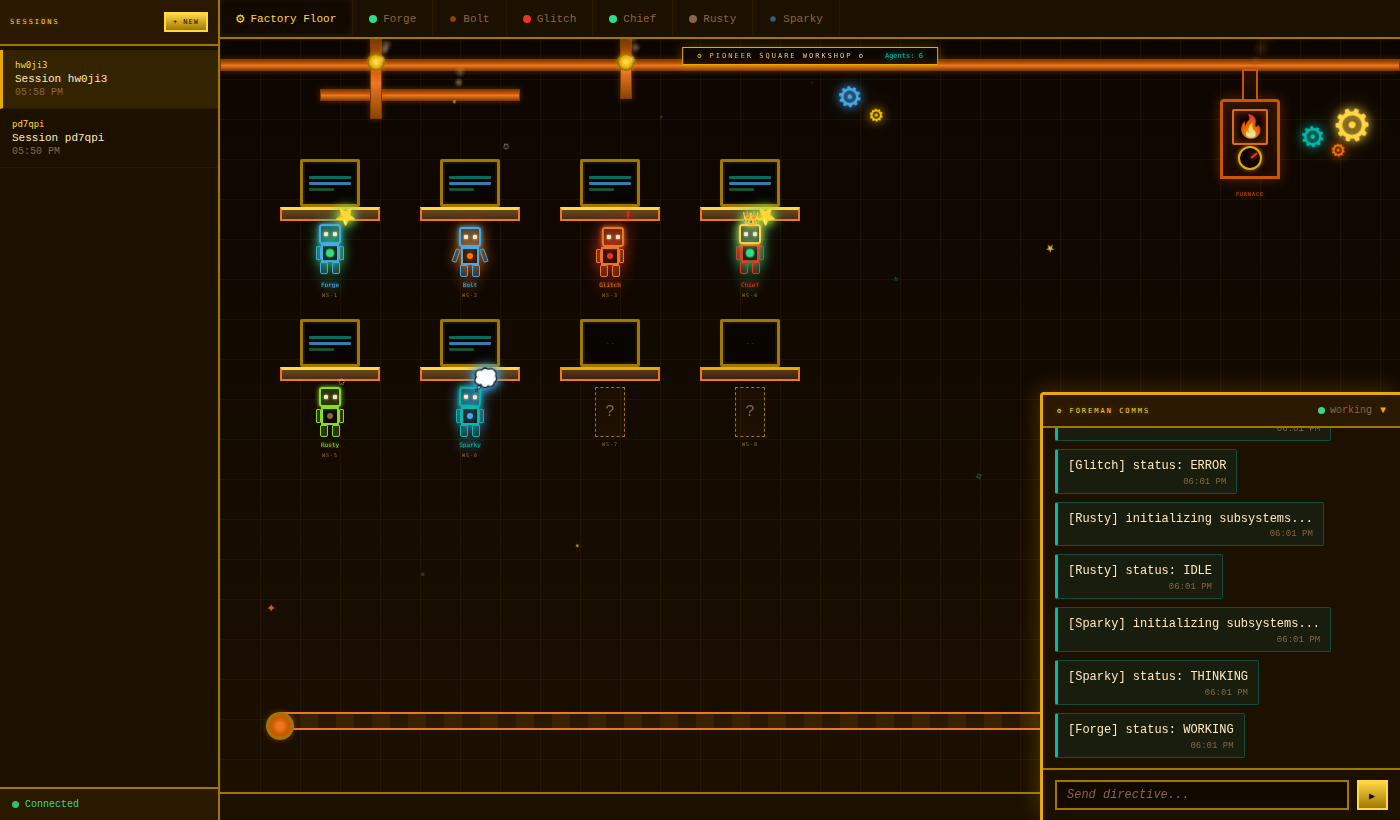
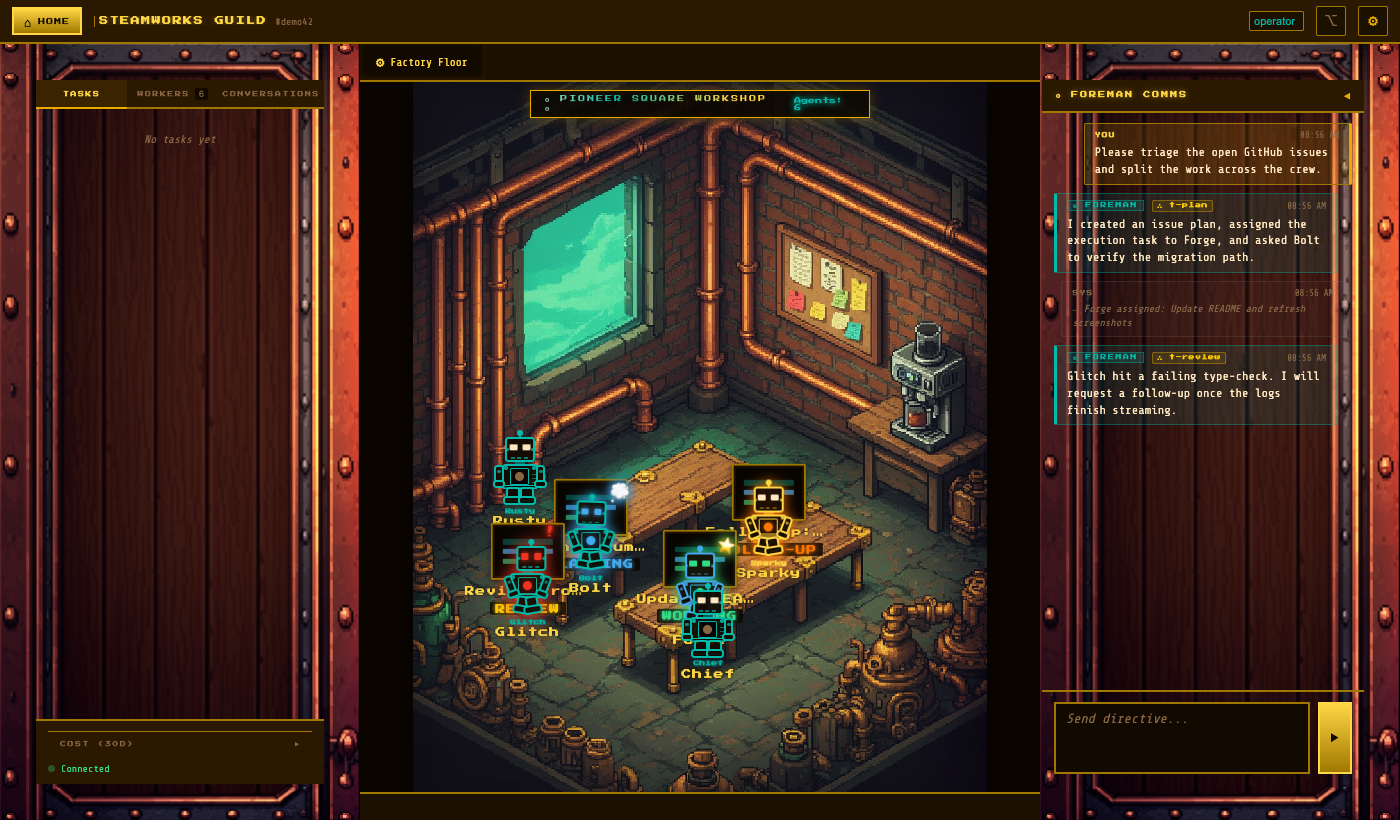
docs: refresh readme and screenshots

diff --git a/README.md b/README.md
@@ -1,95 +1,104 @@
 # Pioneer Square
 
-A real-time multi-agent workspace with a colorful pixel-art factory floor UI.
+A real-time multi-agent workspace where a Foreman AI coordinates worker processes that clone
+repos, run coding agents, and open GitHub PRs — presented as a pixel-art steampunk factory floor.
 
-![Factory Floor](screenshots/factory-floor.png)
+![Factory floor](screenshots/factory-floor.png)
+
+## Screenshots
+
+| Factory | Sidebar | Foreman chat |
+| --- | --- | --- |
+| ![Factory floor closeup](screenshots/agents-closeup.png) | ![Task and worker sidebar](screenshots/sidebar.png) | ![Foreman chat pane](screenshots/chat-pane.png) |
 
 ## Features
 
-- 🏭 Pixel-art steampunk factory floor with animated gears, steam, and furnaces
-- 🤖 Agent avatars with state-based animations (idle/thinking/working/busy/error)
-- 💬 Real-time chat with the Foreman agent
-- 🖥 Terminal log panes per agent
-- 📡 WebSocket signaling for real-time updates (the backend also relays WebRTC
-  offer/answer/ICE messages, though no client currently establishes peer connections)
-- 🔑 Short 6-char guild URLs for sharing
+- 🏭 Pixel-art factory workspace with live worker avatars and state animations
+- 🤖 Worker slots backed by real processes; workers can run `claude`, `codex`, or `pi`
+- 🧠 Foreman AI that plans work, assigns tasks, reviews completions, and requests follow-ups
+- 🌳 GitHub issue/PR-oriented task tree with plan / execute / review / follow-up phases
+- 💬 Real-time Foreman chat, conversation threads, task logs, and per-agent log tabs
+- 🔌 WebSocket protocol for workers, browser clients, and optional external Foreman API proxy
+- 🔐 GitHub OAuth login; workers can use stored OAuth tokens or configured tokens to push PRs
+- 🐳 Docker Compose quickstart with PostgreSQL, backend + built SPA, optional worker/foreman/tools profiles
+- 🔔 Optional Discord notifications, Foreman chat mirror, and `/ps` commands
 
-## Setup
-
-### Docker Compose (quickstart)
+## Quickstart with Docker Compose
 
 ```bash
 cp .env.example .env
-# fill in GITHUB_CLIENT_ID, GITHUB_CLIENT_SECRET, ANTHROPIC_API_KEY
+# Fill at least POSTGRES_PASSWORD, GITHUB_CLIENT_ID, GITHUB_CLIENT_SECRET, ANTHROPIC_API_KEY
 docker compose up --build
 ```
 
-App (backend + SPA): http://localhost:8056. PostgreSQL data is persisted in the `postgres-data` volume.
+Open http://localhost:8056.
 
-`docker compose up` starts a `postgres:18` container automatically, waits for its health-check,
-then runs `alembic upgrade head` before the backend accepts connections.
+`docker compose up` starts PostgreSQL, waits for its health check, runs `alembic upgrade head`, and
+then serves the FastAPI backend plus the built Vue SPA. PostgreSQL data lives in the
+`postgres-data` volume.
 
-The worker is opt-in (it needs a `pioneer-worker.toml`):
+### Optional Docker profiles
+
+Worker container (requires `worker/pioneer-worker.toml`):
 
 ```bash
 cp worker/pioneer-worker.toml.example worker/pioneer-worker.toml
-# edit guild_id, repos. Use backend_url = "http://backend:8000"
+# edit guild_id and repos; for Docker use backend_url = "http://backend:8000"
 docker compose --profile worker up --build worker
 ```
 
-The standalone foreman process is also opt-in — it offloads Foreman LLM API calls out of the
-backend process, e.g. to scale or restart the foreman independently. As of this writing it
-authenticates with a short-lived JWT signed using a shared secret, set as `PIONEER_FOREMAN_KEY`
-on both sides (generate one with `openssl rand -hex 32`):
+Standalone Foreman API proxy:
 
 ```bash
-# Backend:
-PIONEER_FOREMAN_KEY=<your-secret>
-
-# Foreman (docker compose):
-GUILD_ID=abc123 PIONEER_FOREMAN_KEY=<your-secret> docker compose --profile foreman up --build foreman
+GUILD_ID=<your-6-char-guild-id> docker compose --profile foreman up --build foreman
 ```
 
-See [Standalone Foreman](#standalone-foreman-local-no-docker) below for the non-Docker setup.
+Metabase/PostgreSQL inspection tools:
 
-### GitHub OAuth App
-
-Pioneer Square authenticates users via GitHub OAuth rather than personal access tokens. Create an
-OAuth App at **GitHub → Settings → Developer settings → OAuth Apps → New OAuth App**
-(https://github.com/settings/applications/new) with:
-
-- **Homepage URL**: `http://localhost:5173`
-- **Authorization callback URL**: `http://localhost:8000/auth/github/callback`
-
-Then generate a client secret and set both in `backend/.env` (or the shell environment) before
-starting the backend:
-
+```bash
+METABASE_DB_PASSWORD=<password> docker compose --profile tools up pgweb
 ```
+
+## GitHub OAuth App
+
+Create an OAuth App at **GitHub → Settings → Developer settings → OAuth Apps → New OAuth App**:
+
+- **Homepage URL**: `http://localhost:8056`
+- **Authorization callback URL**: `http://localhost:8056/auth/github/callback`
+
+Set these in `.env`:
+
+```dotenv
 GITHUB_CLIENT_ID=your_client_id_here
 GITHUB_CLIENT_SECRET=your_client_secret_here
-# Optional overrides (defaults shown):
-# GITHUB_REDIRECT_URI=http://localhost:8000/auth/github/callback
-# FRONTEND_URL=http://localhost:5173
 ```
 
-### Install the CLI
+For local source development with Vite, run the backend on `8000` and frontend on `5173`; the
+backend defaults are:
 
-The HTTP server, foreman, and worker all install from one package and run through a single
-`pioneer` command:
+```dotenv
+GITHUB_REDIRECT_URI=http://localhost:5173/
+FRONTEND_URL=http://localhost:5173
+```
+
+## Local development
+
+Install the unified CLI package once; it provides all Python runtimes:
 
 ```bash
-uv venv                              # creates .venv/
-source .venv/bin/activate            # Windows: .venv\Scripts\activate
-uv pip install -e "cli[test]"        # one install for all modes
+uv venv
+source .venv/bin/activate
+uv pip install -e "cli[test]"
 ```
 
-### Backend (HTTP server)
+Backend:
 
 ```bash
-pioneer serve --port 8000            # --reload for auto-reload in dev
+# DATABASE_URL must point at PostgreSQL; Docker Compose's postgres service is fine.
+pioneer serve --port 8000 --reload
 ```
 
-### Frontend
+Frontend:
 
 ```bash
 cd frontend
@@ -97,109 +106,93 @@ npm install
 npm run dev
 ```
 
-Open http://localhost:5173 — a new guild will be created automatically.
-
-### Worker
-
-Worker agents run as standalone processes (one per worker) and connect to the
-backend over WebSocket. They can run on any machine that has `claude`, `git`,
-and access to the configured repos.
+Worker:
 
 ```bash
 cp worker/pioneer-worker.toml.example worker/pioneer-worker.toml
-# edit pioneer-worker.toml: backend_url, guild_id, repos
-# github_token is optional — if omitted, the worker fetches the OAuth token
-# stored in the backend DB (set after the user connects via GitHub OAuth)
-pioneer worker --config worker/pioneer-worker.toml
+# edit backend_url, guild_id, [github] repos/org, and optional token
+pioneer worker --config worker/pioneer-worker.toml --log-level DEBUG
 ```
 
-See [`worker/README.md`](worker/README.md) for details.
-
-### Standalone Foreman (local, no Docker)
-
-As of this writing, the backend-owned foreman loop remains responsible for state, history,
-tools, and task coordination; the standalone process is only an optional LLM API proxy for
-calling Anthropic, Bedrock, or an OpenAI-compatible endpoint from a different network environment.
+Standalone Foreman API proxy:
 
 ```bash
 cp foreman-proxy/pioneer-foreman.toml.example foreman-proxy/pioneer-foreman.toml
-# edit pioneer-foreman.toml: backend_url, guild_id, [llm] provider/model/base_url/api_key
+# edit backend_url, guild_id, and [llm] provider/model credentials
 pioneer foreman --config foreman-proxy/pioneer-foreman.toml
 ```
 
-Or with environment variables only (no config file):
+Environment-only example for an OpenAI-compatible local endpoint:
 
 ```bash
 PIONEER_BACKEND_URL=ws://localhost:8000 \
-PIONEER_GUILD_ID=<your-guild-id> \
-FOREMAN_PROVIDER=anthropic \
-ANTHROPIC_API_KEY=<key> \
+PIONEER_GUILD_ID=<your-6-char-guild-id> \
+FOREMAN_PROVIDER=openai \
+FOREMAN_MODEL=llama3.1 \
+FOREMAN_BASE_URL=http://localhost:11434/v1 \
 pioneer foreman
 ```
 
-When the proxy is connected the backend sends `foreman-api-request` messages to it
-for provider calls. If it disconnects, the backend falls back to local provider calls
-from the embedded foreman.
+The external Foreman process is only an LLM API proxy. The backend still owns trigger handling,
+conversation history, tool execution, task state, and polling. If the proxy disconnects, the backend
+falls back to its direct provider configuration.
 
-### Discord integration (optional)
+## Testing and formatting
 
-As of this writing, Pioneer Square can post event notifications, per-PR/issue discussion threads,
-a live Foreman chat mirror, and `/ps` slash commands into a Discord server. It's entirely
-opt-in — with no `DISCORD_*` env vars set, nothing changes. See
-[`docs/discord.md`](docs/discord.md) for setup.
+```bash
+ruff check . --fix && ruff format .
+cd backend && python -m pytest
+cd worker && python -m pytest
+cd frontend && npm test && npm run type-check
+```
+
+Backend and worker tests expect a PostgreSQL test database; the compose file includes one:
+
+```bash
+docker compose --profile test up -d postgres-test
+```
 
 ## Migrating from SQLite
 
-If you have an existing Pioneer Square SQLite database (`pioneer_square.db`)
-and want to move its data to PostgreSQL, use the included migration script:
+Older installs used `pioneer_square.db`. To migrate it into PostgreSQL:
 
 ```bash
-# Ensure the target PostgreSQL schema is up-to-date first:
 cd backend && alembic upgrade head && cd ..
-
 pip install psycopg2-binary
-
 python scripts/migrate_sqlite_to_postgres.py \
-    --sqlite-path /path/to/pioneer_square.db \
-    --postgres-url postgresql://pioneer:pioneer_password@localhost/pioneer_square
+  --sqlite-path /path/to/pioneer_square.db \
+  --postgres-url postgresql://pioneer:pioneer_password@localhost/pioneer_square
 ```
 
-The script accepts `SQLITE_PATH` and `DATABASE_URL` env vars as alternatives
-to the flags. It is idempotent — running it multiple times is safe; rows that
-already exist in PostgreSQL are silently skipped.
+The script is idempotent; rows that already exist are skipped.
 
 ## Architecture
 
-Three processes as of this writing: a FastAPI backend (WebSocket + REST, PostgreSQL via asyncpg),
-a Vue 3/Pinia frontend, and standalone worker processes that run Claude on assigned tasks and
-open GitHub PRs. A fourth, opt-in standalone foreman can offload LLM API calls from the backend.
-See [AGENTS.md](AGENTS.md) for the full reference (terminology, task lifecycle, WebSocket
-protocol, database schema, and store layout).
+Pioneer Square normally runs three independent processes:
 
-## Connecting Agents
-
-Agents connect via WebSocket at `ws://localhost:8000/ws/{guild_id}` and send messages such as:
-
-```json
-{ "type": "join", "agentId": "agent-1", "agentName": "Builder", "agentType": "worker" }
-{ "type": "agent-state", "agentId": "agent-1", "state": "working" }
+```text
+Browser ──WebSocket/REST──► Backend (FastAPI + PostgreSQL)
+Worker  ──WebSocket/REST──► Backend
 ```
 
-States: `idle` | `thinking` | `working` | `busy` | `error`. See AGENTS.md for the full message
-protocol table.
+The optional fourth process, `pioneer foreman`, connects as an external Foreman API proxy. See
+[AGENTS.md](AGENTS.md) for the full reference: terminology, task lifecycle, WebSocket protocol,
+database schema, worker internals, frontend stores, and model-provider notes.
+
+## Discord integration (optional)
+
+Pioneer Square can post event notifications, per-PR/issue discussion threads, a live Foreman chat
+mirror, and `/ps` slash commands into a Discord server. With no `DISCORD_*` environment variables
+set, it is disabled. See [`docs/discord.md`](docs/discord.md).
 
 ## A2A AgentCard
 
-Pioneer Square currently implements the [A2A (Agent-to-Agent) protocol](https://google.github.io/A2A/)
-AgentCard discovery document. Each guild exposes its identity at:
+Each guild exposes an A2A AgentCard:
 
+```text
+GET /.well-known/agent.json        # subdomain routed
+GET /guilds/{guild_id}/agent-card  # direct REST, requires auth
 ```
-GET /.well-known/agent.json        # subdomain-routed (e.g. myguild.pioneer-square.melloy.life)
-GET /guilds/{guild_id}/agent-card  # direct REST (requires auth)
-```
 
-The card describes the guild's Foreman AI and lists currently-online workers as skills
-(`name`, `description`, `url`, `version`, `capabilities`, `skills[]`, `provider`).
-
-Guild-level fields are editable via `PATCH /guilds/{guild_id}` with a JSON body of
-`description`, `url`, and/or `version` (all optional; unset fields fall back to defaults).
+The card describes the guild Foreman and currently-online workers as skills. Guild-level fields are
+editable with `PATCH /guilds/{guild_id}`.
